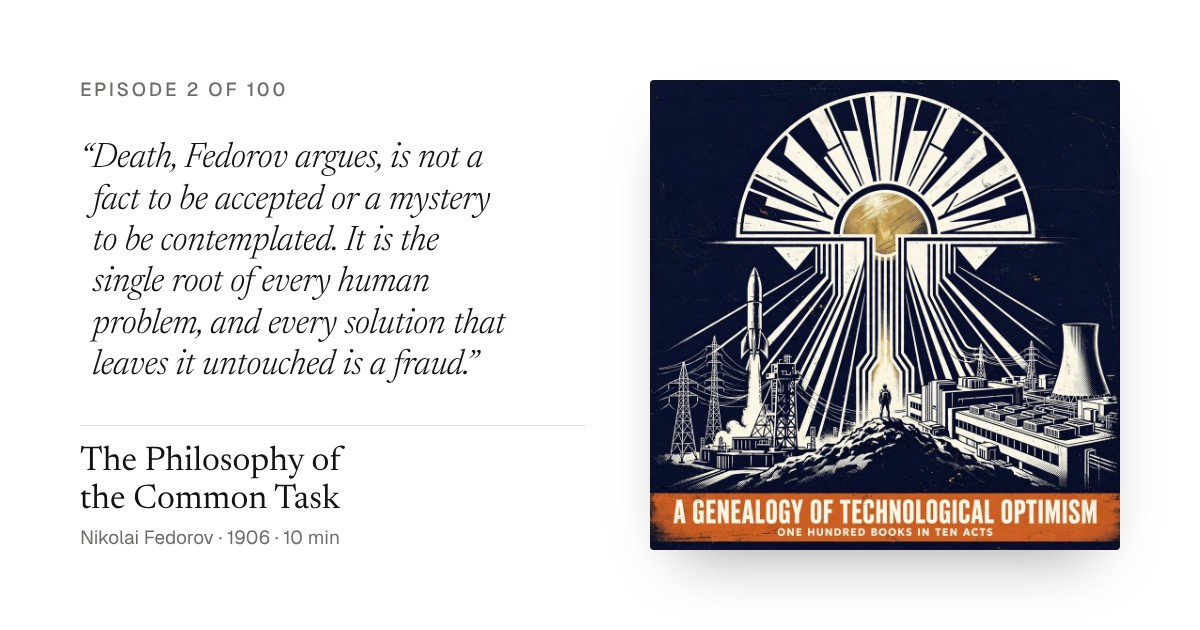
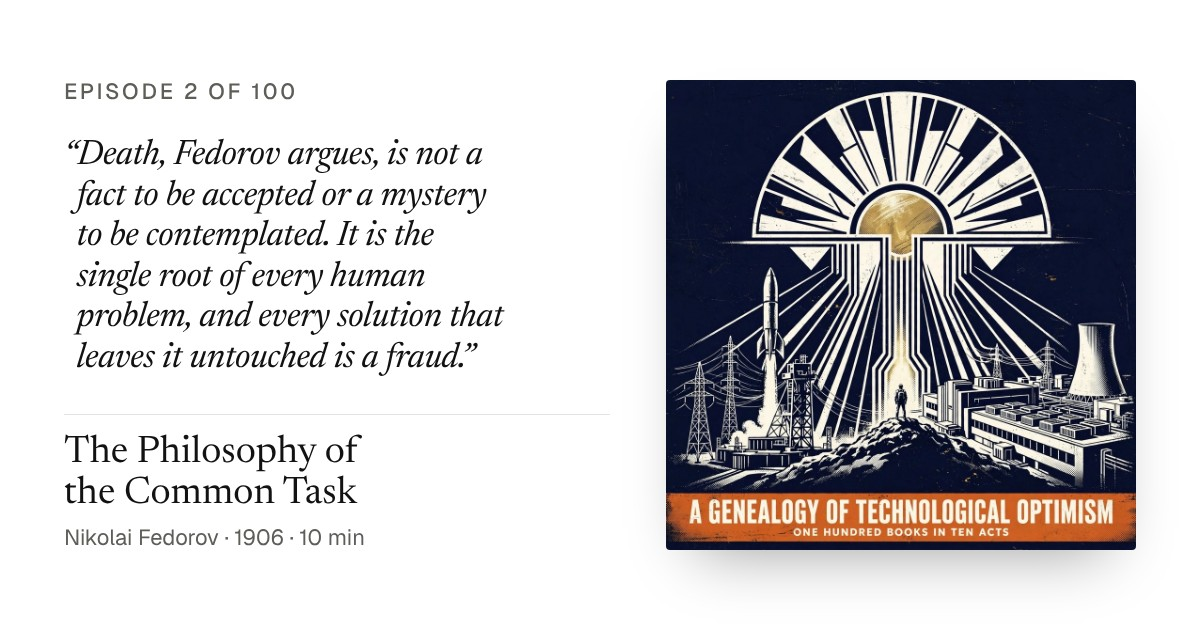
Share cards: larger, firmer quote sized to its length; larger small type; art unchanged
Claude-Session: https://claude.ai/code/session_01X5oQ1dkBWmDZ4rK7JQp8i9

diff --git a/docs/ep/2/index.html b/docs/ep/2/index.html
@@ -13,13 +13,13 @@
 <meta property="og:title" content="2. The Philosophy of the Common Task · A Genealogy of Technological Optimism">
 <meta property="og:description" content="A Moscow librarian, mistaken for a beggar, argues that humanity’s single moral duty is to defeat death and physically resurrect every ancestor through science. The episode lays out Fedorov’s common task in his own terms, traces its path from Dostoevsky’s circle to Tsiolkovsky’s rockets and the Soviet space program, then turns on it: Bulgakov’s theological objection, the question of the dead’s consent, and what a century of hindsight did to the project.">
 <meta property="og:url" content="https://jrslotkin.github.io/genealogy-of-optimism/ep/2/">
-<meta property="og:image" content="https://jrslotkin.github.io/genealogy-of-optimism/ep/2/og.jpg?v=bda64494">
+<meta property="og:image" content="https://jrslotkin.github.io/genealogy-of-optimism/ep/2/og.jpg?v=95fe783b">
 <meta property="og:image:width" content="1200">
 <meta property="og:image:height" content="630">
 <meta name="twitter:card" content="summary_large_image">
 <meta name="twitter:title" content="2. The Philosophy of the Common Task · A Genealogy of Technological Optimism">
 <meta name="twitter:description" content="A Moscow librarian, mistaken for a beggar, argues that humanity’s single moral duty is to defeat death and physically resurrect every ancestor through science. The episode lays out Fedorov’s common task in his own terms, traces its path from Dostoevsky’s circle to Tsiolkovsky’s rockets and the Soviet space program, then turns on it: Bulgakov’s theological objection, the question of the dead’s consent, and what a century of hindsight did to the project.">
-<meta name="twitter:image" content="https://jrslotkin.github.io/genealogy-of-optimism/ep/2/og.jpg?v=bda64494">
+<meta name="twitter:image" content="https://jrslotkin.github.io/genealogy-of-optimism/ep/2/og.jpg?v=95fe783b">
 <link rel="icon" type="image/png" sizes="64x64" href="../../favicon.png">
 <link rel="apple-touch-icon" href="../../apple-touch-icon.png">
 <link rel="preload" href="../../fonts/newsreader.woff2" as="font" type="font/woff2" crossorigin>

diff --git a/docs/ep/3/index.html b/docs/ep/3/index.html
@@ -13,13 +13,13 @@
 <meta property="og:title" content="3. New Atlantis · A Genealogy of Technological Optimism">
 <meta property="og:description" content="A disgraced Lord Chancellor writes the blueprint for the perfect research institution: Salomon’s House, with its spies, its nine offices of scientific labor, and its oath of secrecy. The episode lays out Bacon’s New Atlantis in his own terms, tests the famous claim that it fathered the Royal Society, then turns on it: thirty-six men deciding in secret what mankind may know, the domination-of-nature critique, and what four centuries of hindsight did to the program.">
 <meta property="og:url" content="https://jrslotkin.github.io/genealogy-of-optimism/ep/3/">
-<meta property="og:image" content="https://jrslotkin.github.io/genealogy-of-optimism/ep/3/og.jpg?v=8d755768">
+<meta property="og:image" content="https://jrslotkin.github.io/genealogy-of-optimism/ep/3/og.jpg?v=de97b674">
 <meta property="og:image:width" content="1200">
 <meta property="og:image:height" content="630">
 <meta name="twitter:card" content="summary_large_image">
 <meta name="twitter:title" content="3. New Atlantis · A Genealogy of Technological Optimism">
 <meta name="twitter:description" content="A disgraced Lord Chancellor writes the blueprint for the perfect research institution: Salomon’s House, with its spies, its nine offices of scientific labor, and its oath of secrecy. The episode lays out Bacon’s New Atlantis in his own terms, tests the famous claim that it fathered the Royal Society, then turns on it: thirty-six men deciding in secret what mankind may know, the domination-of-nature critique, and what four centuries of hindsight did to the program.">
-<meta name="twitter:image" content="https://jrslotkin.github.io/genealogy-of-optimism/ep/3/og.jpg?v=8d755768">
+<meta name="twitter:image" content="https://jrslotkin.github.io/genealogy-of-optimism/ep/3/og.jpg?v=de97b674">
 <link rel="icon" type="image/png" sizes="64x64" href="../../favicon.png">
 <link rel="apple-touch-icon" href="../../apple-touch-icon.png">
 <link rel="preload" href="../../fonts/newsreader.woff2" as="font" type="font/woff2" crossorigin>

diff --git a/docs/ep/1/index.html b/docs/ep/1/index.html
@@ -13,13 +13,13 @@
 <meta property="og:title" content="1. The Phenomenon of Man · A Genealogy of Technological Optimism">
 <meta property="og:description" content="A Jesuit paleontologist, silenced by his own Church, writes a cosmic history in wartime Beijing: evolution as one movement toward complexity, consciousness, and a final convergence he calls the Omega Point. The episode lays out the argument in Teilhard’s own terms, reconstructs the double attack from scientists and Rome, and follows its afterlife through the internet and transhumanism.">
 <meta property="og:url" content="https://jrslotkin.github.io/genealogy-of-optimism/ep/1/">
-<meta property="og:image" content="https://jrslotkin.github.io/genealogy-of-optimism/ep/1/og.jpg?v=83be223c">
+<meta property="og:image" content="https://jrslotkin.github.io/genealogy-of-optimism/ep/1/og.jpg?v=302879d8">
 <meta property="og:image:width" content="1200">
 <meta property="og:image:height" content="630">
 <meta name="twitter:card" content="summary_large_image">
 <meta name="twitter:title" content="1. The Phenomenon of Man · A Genealogy of Technological Optimism">
 <meta name="twitter:description" content="A Jesuit paleontologist, silenced by his own Church, writes a cosmic history in wartime Beijing: evolution as one movement toward complexity, consciousness, and a final convergence he calls the Omega Point. The episode lays out the argument in Teilhard’s own terms, reconstructs the double attack from scientists and Rome, and follows its afterlife through the internet and transhumanism.">
-<meta name="twitter:image" content="https://jrslotkin.github.io/genealogy-of-optimism/ep/1/og.jpg?v=83be223c">
+<meta name="twitter:image" content="https://jrslotkin.github.io/genealogy-of-optimism/ep/1/og.jpg?v=302879d8">
 <link rel="icon" type="image/png" sizes="64x64" href="../../favicon.png">
 <link rel="apple-touch-icon" href="../../apple-touch-icon.png">
 <link rel="preload" href="../../fonts/newsreader.woff2" as="font" type="font/woff2" crossorigin>

diff --git a/build/build_site.py b/build/build_site.py
@@ -1047,7 +1047,7 @@ def build_html(zip_info):
 """
 
 
-OG_LAYOUT = "2"   # bump when the share-card design changes, so apps fetch the new image
+OG_LAYOUT = "3"   # bump when the share-card design changes, so apps fetch the new image
 
 
 def og_version(*parts):
@@ -1167,18 +1167,19 @@ def build_episode_ogs(eps):
             q = smart((ep.get("pull") or {}).get("text") or bk["note"])
             # Cover art carries the show's name and is what people see in their podcast app;
             # the quote is the hook; the book names the episode. Everything sized to read as a thumbnail.
-            size = 46 if len(q) <= 110 else 40 if len(q) <= 170 else 35 if len(q) <= 230 else 31
+            size = 64   # the largest that fits; stepped down in the page below
+            lines = 2 if len(q) <= 60 else 4 if len(q) <= 110 else 6 if len(q) <= 170 else 8
             dur = to_seconds(ep.get("duration") or 0)
             tmp = OUT / "_og_ep.html"
             tmp.write_text(f"""<!doctype html><meta charset="utf-8"><style>{faces()}
 html,body{{margin:0;width:1200px;height:630px;background:#fff;color:#121212}}
-.w{{box-sizing:border-box;width:1200px;height:630px;padding:80px;display:grid;grid-template-columns:minmax(0,1fr) 470px;gap:64px}}
-.t{{display:flex;flex-direction:column;justify-content:space-between;height:470px;min-width:0;overflow:hidden}}
-.ey{{font:500 19px/1 Geist;letter-spacing:.14em;text-transform:uppercase;color:#6E6E69}}
-blockquote{{margin:0;padding-left:.36em;text-indent:-.36em;font:italic 330 {size}px/1.18 Newsreader;letter-spacing:-.01em;color:#121212;text-wrap:balance}}
+.w{{box-sizing:border-box;width:1200px;height:630px;padding:80px 64px;display:grid;grid-template-columns:minmax(0,1fr) 470px;gap:56px}}
+.t{{display:flex;flex-direction:column;justify-content:space-between;gap:34px;height:470px;min-width:0;overflow:hidden}}
+.ey{{font:500 22px/1 Geist;letter-spacing:.12em;text-transform:uppercase;color:#5E5E59}}
+blockquote{{margin:0;padding-left:.36em;text-indent:-.36em;font:italic 420 {size}px/1.16 Newsreader;letter-spacing:-.012em;color:#121212;text-wrap:balance}}
 .bk{{border-top:1px solid #E4E4E1;padding-top:18px}}
-.bt{{font:400 34px/1.1 Newsreader;color:#121212;text-wrap:balance}}
-.bm{{margin-top:8px;font:400 19px/1.2 Geist;color:#6E6E69}}
+.bt{{font:400 38px/1.1 Newsreader;color:#121212;text-wrap:balance}}
+.bm{{margin-top:8px;font:400 22px/1.2 Geist;color:#5E5E59}}
 img{{width:470px;height:470px;border-radius:4px;display:block;box-shadow:0 30px 60px -30px rgba(0,0,0,.4)}}
 </style><div class="w"><div class="t"><div class="ey">Episode {n} of 100</div>
 <blockquote>&ldquo;{e(q)}&rdquo;</blockquote>
@@ -1188,10 +1189,11 @@ img{{width:470px;height:470px;border-radius:4px;display:block;box-shadow:0 30px 
             pg.goto(tmp.as_uri())
             pg.evaluate("document.fonts.ready")
             pg.wait_for_timeout(250)
-            # a long quote steps down until the column fits
-            pg.evaluate("""() => { const t = document.querySelector('.t'), q = document.querySelector('blockquote');
+            # the quote steps down from large until it fits the column in at most `lines` lines
+            pg.evaluate("""(maxLines) => { const t = document.querySelector('.t'), q = document.querySelector('blockquote');
               let s = parseFloat(getComputedStyle(q).fontSize);
-              while (t.scrollHeight > t.clientHeight + 1 && s > 24) { s -= 1; q.style.fontSize = s + 'px'; } }""")
+              const nLines = () => Math.round(q.getBoundingClientRect().height / (s * 1.16));
+              while ((t.scrollHeight > t.clientHeight + 1 || nLines() > maxLines) && s > 26) { s -= 1; q.style.fontSize = s + 'px'; } }""", lines)
             d = OUT / "ep" / str(n)
             d.mkdir(parents=True, exist_ok=True)
             pg.screenshot(path=str(d / "og.png"))
